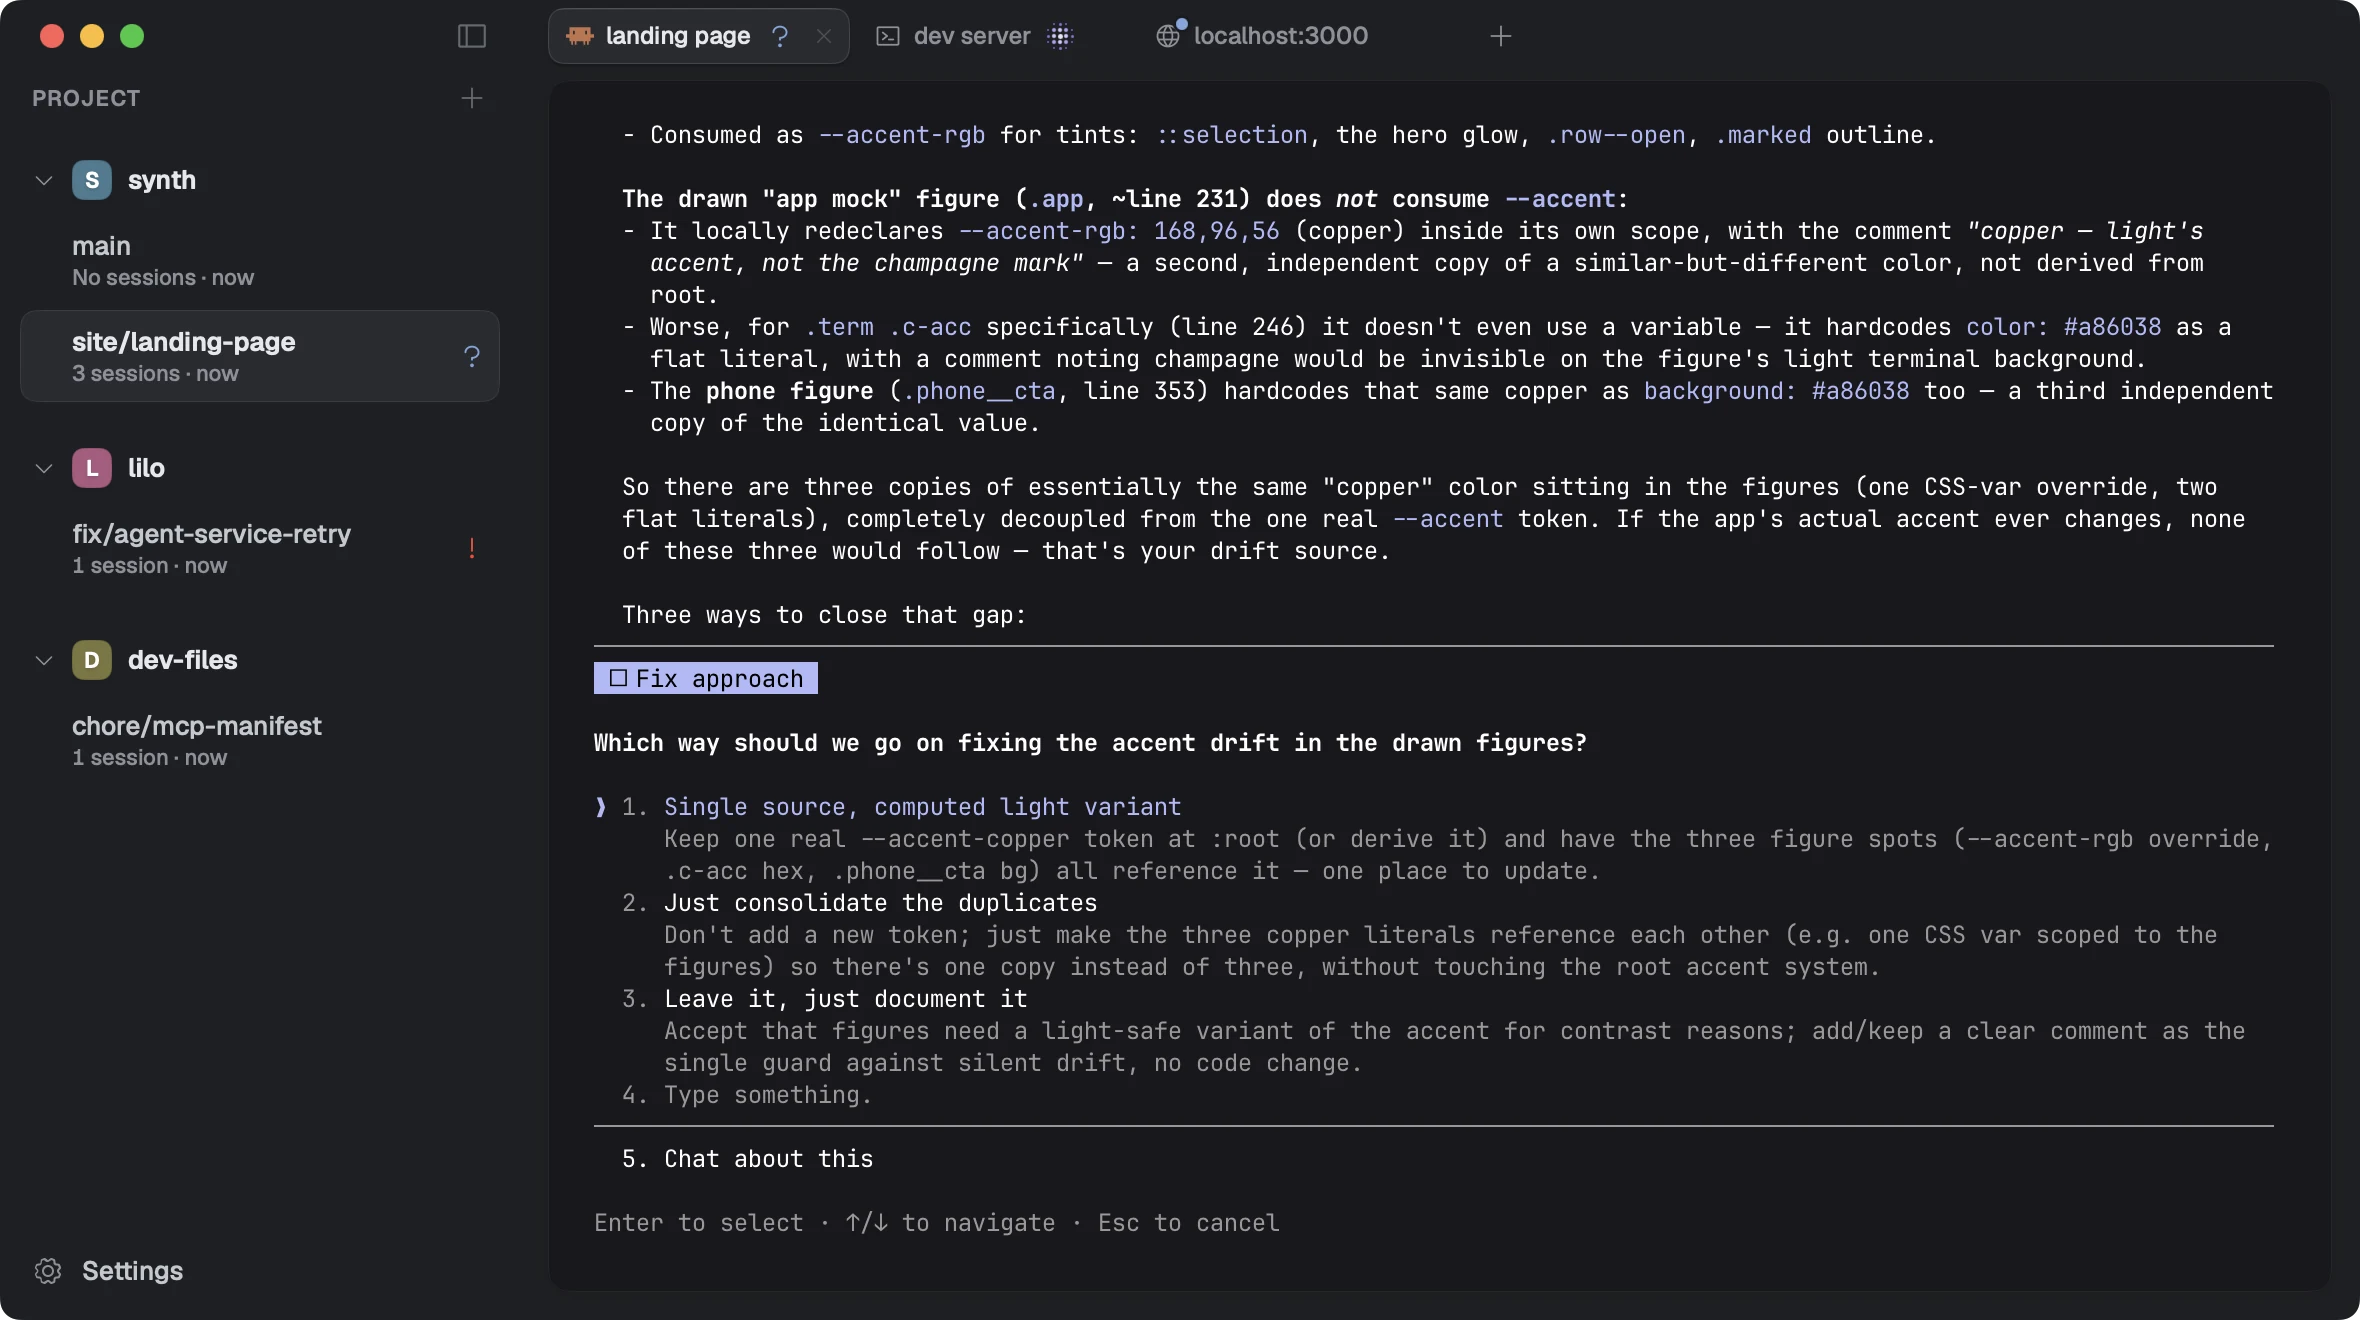
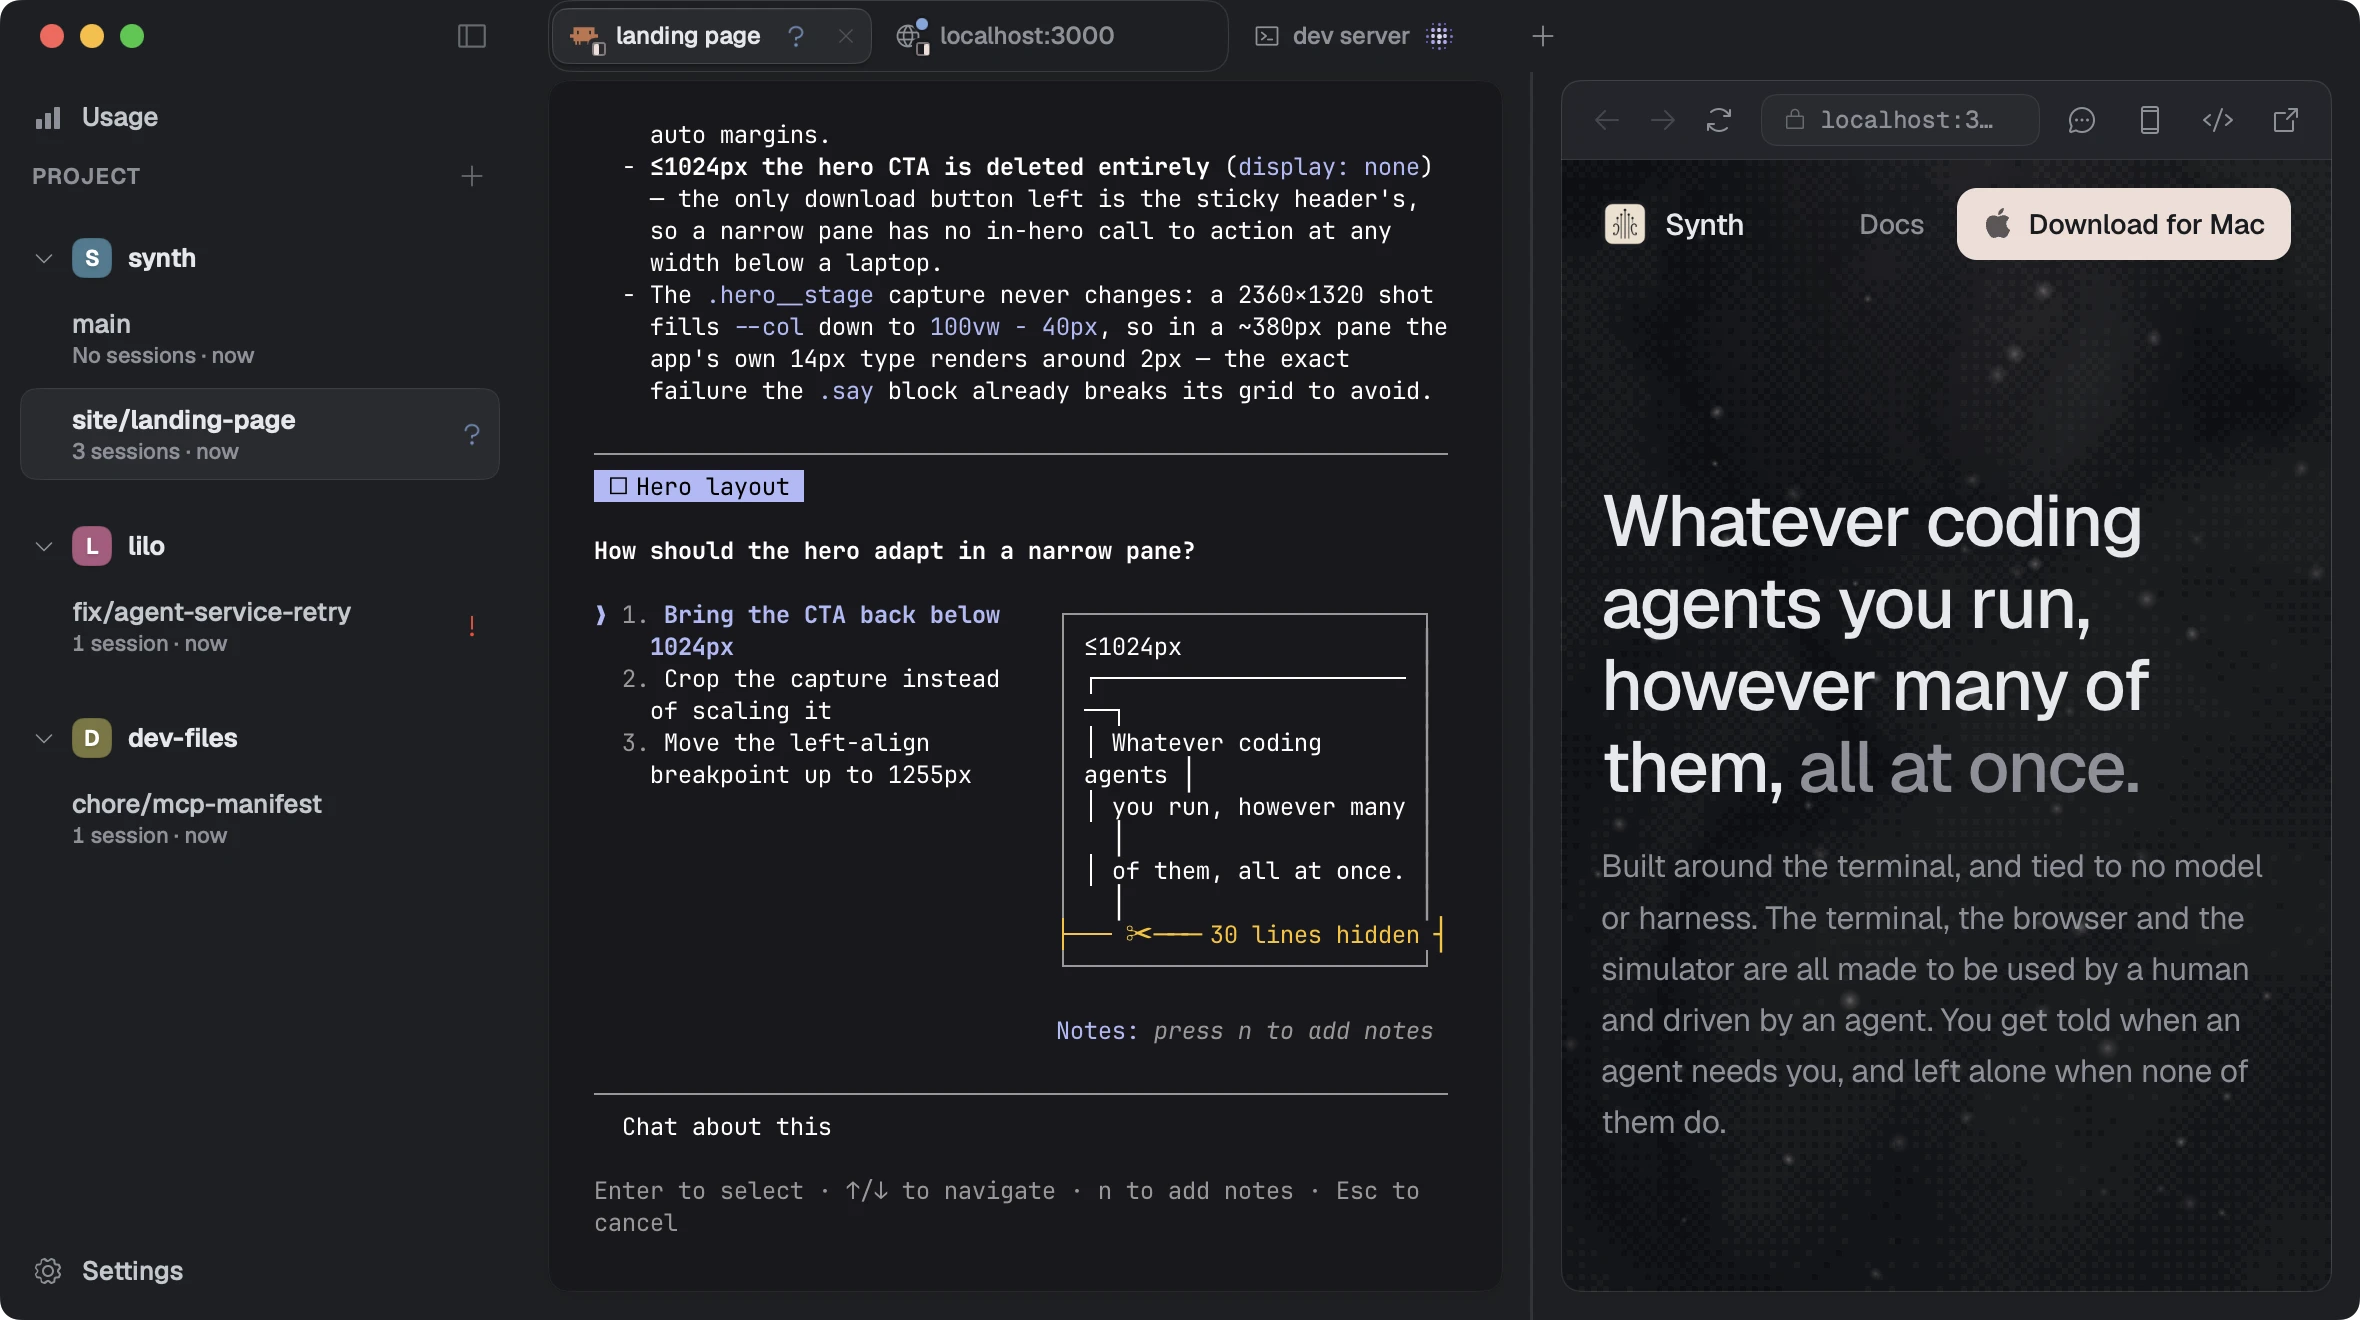
Show Claude Code beside the live website in hero capture

diff --git a/site/index.html b/site/index.html
@@ -447,7 +447,7 @@
     <div class="hero__stage rev" data-d="3">
       <figure class="shot">
         <img src="img/hero-dark@2x.webp" width="2360" height="1320" alt="Synth with three projects in the
-             sidebar and a Claude Code session open, stopped on a question about the page's accent colour."
+             sidebar, Claude Code on the left and the live website in a browser pane on the right."
              fetchpriority="high" decoding="async">
       </figure>
     </div>

diff --git a/site/capture/scenes.py b/site/capture/scenes.py
@@ -97,42 +97,14 @@ PROJECTS = [
                 "expanded": True,
                 "sessions": [
                     {"key": "claude", "kind": "claudeCode", "title": "landing page",
-                     # One turn. Real reading, then a real question — an agent that stops to ask
-                     # is the only reliable way to reach needs-input rather than waiting for it to
-                     # happen (harness t3_notifs).
-                     #
-                     # This message is IN THE PICTURE: the pane echoes it above the answer. So it
-                     # has to be something a person would really have typed. An earlier version
-                     # said "use your question tool to ask me…", which is nobody's sentence — a
-                     # reader saw a script being followed rather than someone working, which is
-                     # the exact thing going to a real agent was meant to avoid.
-                     #
-                     # It asks to be consulted instead. The stop is still there, but it is there
-                     # because the person wants the decision, which is the truth of it.
-                     # Two jobs, and both are about the picture as much as the answer.
-                     #
-                     # "Three short options, one line each" keeps the question block small. With
-                     # four options and a paragraph under each it fills the pane on its own, and
-                     # the figure then argues only that an agent stopped to ask — no evidence
-                     # left that it did anything first.
-                     #
-                     # Asking two questions rather than one makes the turn long enough to fill
-                     # the pane from below. A short turn leaves Claude's startup banner on
-                     # screen, and that banner prints the absolute worktree path — a scratch
-                     # directory under /private/var, which is the one thing in these figures that
-                     # could only come from a rig.
-                     #
-                     # "I want to pick, not be told" is what actually holds it to the question
-                     # tool. Without it the turn sometimes ends with the options in prose, which
-                     # never reaches needs-input.
+                      # Arrow-key selection asks for an interactive question: prose options end
+                      # idle, losing the needs-input badge. Short options fit the narrower pane.
                      "prompt":
-                        "The product figures on this page are hand-drawn HTML and they "
-                        "keep drifting from the app. Before you change anything: tell me "
-                        "where --accent is actually used in site/index.html, and whether "
-                        "the drawn figures use it or keep their own copy of the colour. "
-                        "Then stop and ask me which way we should go — three short "
-                        "options, one line each. I want to pick, not be told — don't "
-                        "decide it for me."},
+                         "Read site/index.html and check how the hero adapts to a narrow "
+                         "browser pane. Summarise what you find in three short bullets. "
+                         "Before changing anything, give me a multiple-choice question "
+                         "with three layout options I can select using the arrow keys. "
+                         "Keep each option to one line and wait for my selection."},
                     {"key": "devserver", "kind": "terminal", "title": "dev server",
                      "signals": ["term-run"]},
                     {"key": "web", "kind": "browser", "title": "localhost:3000",
@@ -248,15 +220,16 @@ SIMULATOR = {"device": "iPhone 16 Pro", "page": PAGE}
 #
 #   what       one line, printed by the run and repeated in the README.
 #   open       the session key whose pane fills the window. None leaves the pane empty.
+#   split      right-hand session key and the left pane's fraction of the content width.
 #   window     overrides WINDOW for this scene.
 #   palette    True captures the floating ⌘K panel instead of the app window.
 #   dark_too   also record the scene in the dark theme, as `<scene>-dark@2x.png`.
 
 SCENES = {
     "hero": {
-        "what": "the whole window: the tab strip, the branch roll-ups, and a live Claude "
-                "reading this site",
+        "what": "the whole window: Claude Code beside the live landing page",
         "open": "claude",
+        "split": {"right": "web", "fraction": 0.55},
         # Taller than the rest. This figure has to show a whole turn — what the agent read, what
         # it found, and the question it stopped on — and the question alone fills the shared
         # height. The sidebar runs out before the pane does, which is the right way round here:

diff --git a/site/capture/capture.py b/site/capture/capture.py
@@ -106,7 +106,7 @@ def say(msg):
 # The tree on disk
 # ─────────────────────────────────────────────────────────────────────────────
 
-def build_tree():
+def build_tree(spec=None):
     """One git repo per project, one real worktree per branch, and the state.json to match."""
     for d in (REPOS, WORKTREES, STATE, LOGS, NOZDOT):
         shutil.rmtree(d, ignore_errors=True)
@@ -154,6 +154,15 @@ def build_tree():
                 "lastActivity": "now",
                 "sessions": [persisted(project, branch, s) for s in branch["sessions"]],
             })
+            if spec and spec.get("split"):
+                keys = {s["key"] for s in branch["sessions"]}
+                left, right = spec["open"], spec["split"]["right"]
+                if left in keys and right in keys:
+                    branches[-1]["layout"] = {"split": {
+                        "dir": "row", "split": spec["split"]["fraction"],
+                        "a": {"leaf": {"session": uid(project["name"], name, left)}},
+                        "b": {"leaf": {"session": uid(project["name"], name, right)}},
+                    }}
         workspaces.append({"id": ws_id, "name": project["name"],
                            "url": "file://" + urllib.parse.quote(str(repo)),
                            "colorIndex": project["chip"], "branches": branches})
@@ -595,9 +604,18 @@ def node_playwright():
 # ─────────────────────────────────────────────────────────────────────────────
 
 def scene_hero(ctl, hook_path, spec):
-    """Nothing beyond the shared staging: the tree, the statuses and the open terminal are the
-    picture."""
-    return
+    """Wait for the live page and verify the restored split before pressing the shutter."""
+    _, sid, wt = find(spec["split"]["right"])
+    if not wait(lambda: SITE_ORIGIN in (
+            ctl("automation.state", worktree=wt, sessionId=sid).get("address") or ""), 60):
+        raise Skip("hero browser did not load the landing page")
+    layout = ctl("automation.layout")
+    tree = layout.get("tree", {})
+    if (layout.get("panes") != 2 or tree.get("dir") != "row"
+            or abs(tree.get("split", 0) - spec["split"]["fraction"]) > 0.01
+            or tree.get("a", {}).get("session", "").lower() != find(spec["open"])[1].lower()
+            or tree.get("b", {}).get("session", "").lower() != sid.lower()):
+        raise Skip(f"hero split did not restore: {layout}")
 
 
 def scene_browser(ctl, hook_path, spec):
@@ -766,7 +784,7 @@ def record(name, spec, visible=True, theme=None, suffix=""):
     # Every scene gets the tree fresh — new clones, new worktrees, new state. Synth autosaves
     # back into `$SYNTH_STATE_DIR`, so a scene would otherwise inherit the last one's app; and a
     # live agent has been editing in these worktrees, so the next scene deserves a clean one.
-    build_tree()
+    build_tree(spec)
     theme = theme or spec.get("theme", scenes.THEME)
     w, h = spec.get("window", scenes.WINDOW)
 

diff --git a/site/capture/README.md b/site/capture/README.md
@@ -94,7 +94,7 @@ sessions become a tab strip above the pane. Per-session state lives in the strip
 
 | file | what it shows |
 | --- | --- |
-| `hero@2x.png` | the tab strip, the branch roll-ups, and a live Claude reading this site |
+| `hero@2x.png` | Claude Code on the left (55%), the live landing page on the right (45%) |
 | `browser@2x.png` | a browser session showing this landing page, two comments pinned on it |
 | `simulator@2x.png` | this page's mobile layout, in Safari on a booted iPhone |
 | `approval@2x.png` | the ⌘K frame an agent's worktree request stops on, cropped to the card |
